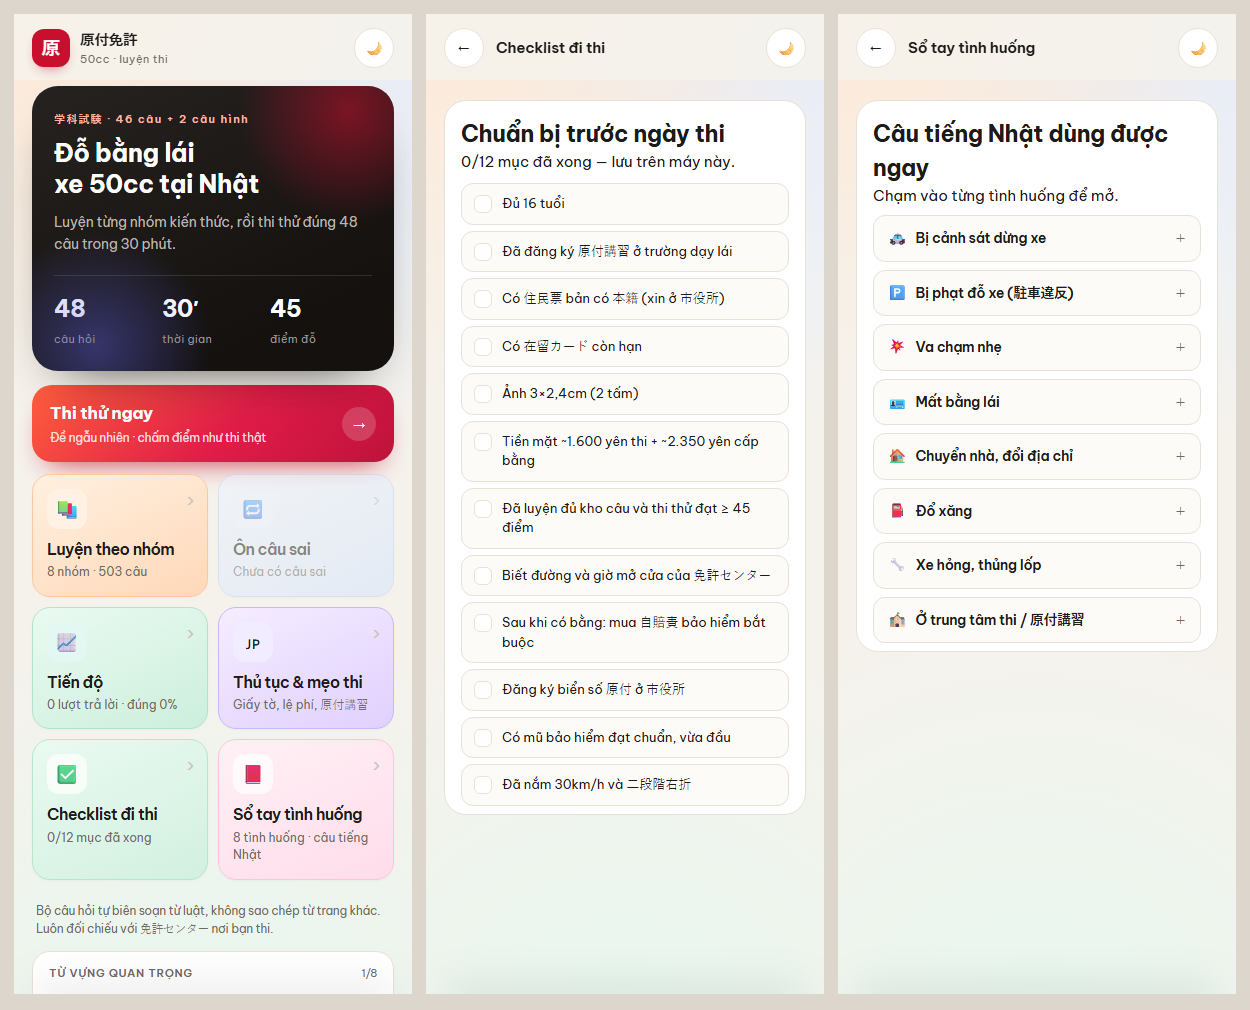
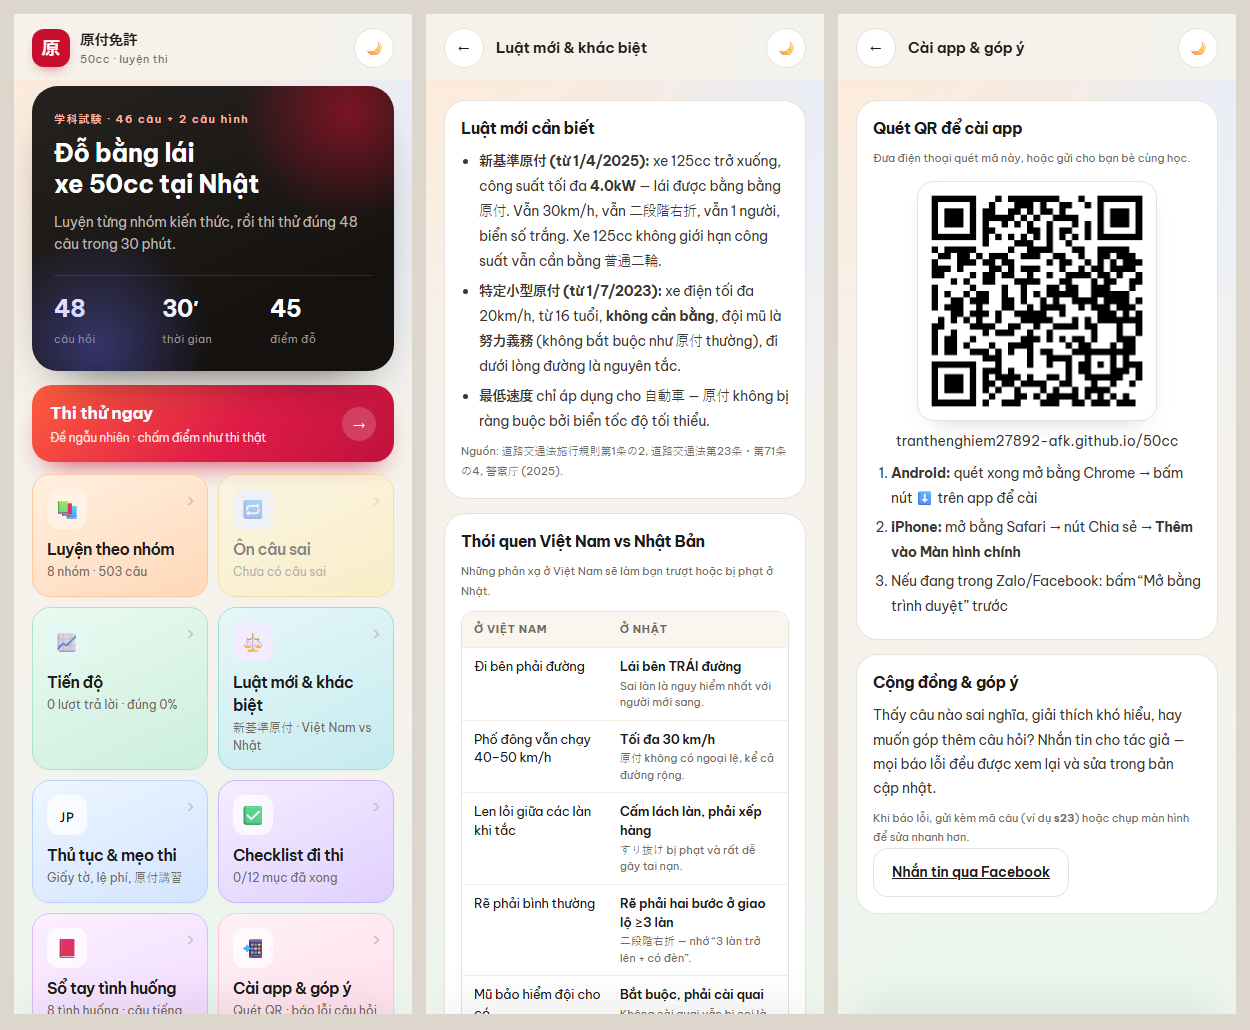
Add files via upload

diff --git a/js/app.js b/js/app.js
@@ -13,7 +13,7 @@
   var EXAM_TEXT = 46;
   var EXAM_ILL = 2;
   var PASS = 45;
-  var APP_VER = '46';
+  var APP_VER = '47';
 
   var qById = {};
   Q.forEach(function (q) { qById[q.id] = q; });
@@ -759,6 +759,11 @@
             '<span class="tile-body"><h3>Tiến độ</h3><p>' + o.n + ' lượt trả lời · đúng ' + o.rate + '%</p></span>' +
             '<span class="chev">›</span>' +
           '</button>' +
+          '<button class="tile" data-act="go-law">' +
+            '<span class="tile-icon">⚖</span>' +
+            '<span class="tile-body"><h3>Luật mới & khác biệt</h3><p>新基準原付 · Việt Nam vs Nhật</p></span>' +
+            '<span class="chev">›</span>' +
+          '</button>' +
           '<button class="tile" data-act="go-info">' +
             '<span class="tile-icon">🇯🇵</span>' +
             '<span class="tile-body"><h3>Thủ tục & mẹo thi</h3><p>Giấy tờ, lệ phí, 原付講習</p></span>' +
@@ -774,6 +779,11 @@
           '<button class="tile" data-act="go-sos">' +
             '<span class="tile-icon">📕</span>' +
             '<span class="tile-body"><h3>Sổ tay tình huống</h3><p>' + SITS.length + ' tình huống · câu tiếng Nhật</p></span>' +
+            '<span class="chev">›</span>' +
+          '</button>' +
+          '<button class="tile" data-act="go-connect">' +
+            '<span class="tile-icon">📲</span>' +
+            '<span class="tile-body"><h3>Cài app & góp ý</h3><p>Quét QR · báo lỗi câu hỏi</p></span>' +
             '<span class="chev">›</span>' +
           '</button>' +
         '</div>' +
@@ -1292,17 +1302,10 @@
       '</main>';
   }
 
-  function viewInfo() {
-    return topbar('Thủ tục & mẹo thi') +
+  function viewLaw() {
+    return topbar('Luật mới & khác biệt') +
       '<main class="wrap info">' +
-        '<section class="panel">' +
-          '<h2>Thi lý thuyết 原付 (50cc)</h2>' +
-          '<p>Đề gồm <b>46 câu chữ ○×</b> (1 điểm/câu) và <b>2 câu hình 危険予測</b> (2 điểm/câu, mỗi câu có 3 tiểu hỏi — ' +
-          'đúng cả 3 mới được 2 điểm). Tổng <b>48 câu, 50 điểm, 45 điểm là đỗ</b>, làm trong <b>30 phút</b>.</p>' +
-          '<p>Không có thi thực hành — chỉ lý thuyết tại 運転免許試験場. Tỷ lệ đỗ toàn quốc khoảng <b>58,7%</b> (năm 2025).</p>' +
-          '<p class="muted">Nguồn tham khảo: trang 学科試験 của 高知県警察 (30 phút, 50 điểm, 45 điểm đỗ).</p>' +
-        '</section>' +
-        '<section class="panel">' +
+'<section class="panel">' +
           '<h2>Luật mới cần biết</h2>' +
           '<ul>' +
             '<li><b>新基準原付 (từ 1/4/2025):</b> xe 125cc trở xuống, công suất tối đa <b>4.0kW</b> — lái được bằng bằng 原付. ' +
@@ -1313,6 +1316,55 @@
           '</ul>' +
           '<p class="muted">Nguồn: 道路交通法施行規則第1条の2, 道路交通法第23条・第71条の4, 警察庁 (2025).</p>' +
         '</section>' +
+'<section class="panel">' +
+          '<h2>Thói quen Việt Nam vs Nhật Bản</h2>' +
+          '<p class="muted">Những phản xạ ở Việt Nam sẽ làm bạn trượt hoặc bị phạt ở Nhật.</p>' +
+          '<div class="cmp">' +
+            '<div class="cmp-row cmp-head"><span>Ở Việt Nam</span><span>Ở Nhật</span></div>' +
+            COMPARE.map(function (x) {
+              return '<div class="cmp-row"><span>' + esc(x.vi) + '</span>' +
+                '<span><b>' + esc(x.jp) + '</b><i>' + esc(x.note) + '</i></span></div>';
+            }).join('') +
+          '</div>' +
+        '</section>' +
+      '</main>';
+  }
+
+  function viewConnect() {
+    return topbar('Cài app & góp ý') +
+      '<main class="wrap info">' +
+'<section class="panel">' +
+          '<h2>Quét QR để cài app</h2>' +
+          '<p class="muted">Đưa điện thoại quét mã này, hoặc gửi cho bạn bè cùng học.</p>' +
+          '<div class="qrbox"><img src="assets/qr.png" alt="Mã QR mở app 原付 50cc" width="240" height="240" loading="lazy"></div>' +
+          '<p class="qrurl">tranthenghiem27892-afk.github.io/50cc</p>' +
+          '<ol class="w-steps">' +
+            '<li><b>Android:</b> quét xong mở bằng Chrome → bấm nút ⬇ trên app để cài</li>' +
+            '<li><b>iPhone:</b> mở bằng Safari → nút Chia sẻ → <b>Thêm vào Màn hình chính</b></li>' +
+            '<li>Nếu đang trong Zalo/Facebook: bấm “Mở bằng trình duyệt” trước</li>' +
+          '</ol>' +
+        '</section>' +
+'<section class="panel">' +
+          '<h2>Cộng đồng & góp ý</h2>' +
+          '<p>Thấy câu nào sai nghĩa, giải thích khó hiểu, hay muốn góp thêm câu hỏi? ' +
+            'Nhắn tin cho tác giả — mọi báo lỗi đều được xem lại và sửa trong bản cập nhật.</p>' +
+          '<p class="muted">Khi báo lỗi, gửi kèm mã câu (ví dụ <b>s23</b>) hoặc chụp màn hình để sửa nhanh hơn.</p>' +
+          '<a class="btn btn-ghost" href="https://www.facebook.com/Gimichan92" target="_blank" rel="noopener noreferrer" data-fb="1">Nhắn tin qua Facebook</a>' +
+        '</section>' +
+      '</main>';
+  }
+
+  function viewInfo() {
+    return topbar('Thủ tục & mẹo thi') +
+      '<main class="wrap info">' +
+        '<section class="panel">' +
+          '<h2>Thi lý thuyết 原付 (50cc)</h2>' +
+          '<p>Đề gồm <b>46 câu chữ ○×</b> (1 điểm/câu) và <b>2 câu hình 危険予測</b> (2 điểm/câu, mỗi câu có 3 tiểu hỏi — ' +
+          'đúng cả 3 mới được 2 điểm). Tổng <b>48 câu, 50 điểm, 45 điểm là đỗ</b>, làm trong <b>30 phút</b>.</p>' +
+          '<p>Không có thi thực hành — chỉ lý thuyết tại 運転免許試験場. Tỷ lệ đỗ toàn quốc khoảng <b>58,7%</b> (năm 2025).</p>' +
+          '<p class="muted">Nguồn tham khảo: trang 学科試験 của 高知県警察 (30 phút, 50 điểm, 45 điểm đỗ).</p>' +
+        '</section>' +
+        
         '<section class="panel">' +
           '<h2>Điều kiện & thủ tục</h2>' +
           '<ul>' +
@@ -1334,40 +1386,14 @@
             '<li>Không bỏ trống câu nào — sai không bị trừ điểm.</li>' +
           '</ul>' +
         '</section>' +
-        '<section class="panel">' +
-          '<h2>Thói quen Việt Nam vs Nhật Bản</h2>' +
-          '<p class="muted">Những phản xạ ở Việt Nam sẽ làm bạn trượt hoặc bị phạt ở Nhật.</p>' +
-          '<div class="cmp">' +
-            '<div class="cmp-row cmp-head"><span>Ở Việt Nam</span><span>Ở Nhật</span></div>' +
-            COMPARE.map(function (x) {
-              return '<div class="cmp-row"><span>' + esc(x.vi) + '</span>' +
-                '<span><b>' + esc(x.jp) + '</b><i>' + esc(x.note) + '</i></span></div>';
-            }).join('') +
-          '</div>' +
-        '</section>' +
+        
         '<section class="panel">' +
           '<h2>Về bộ câu hỏi này</h2>' +
           '<p>Toàn bộ câu hỏi được biên soạn lại bằng tiếng Nhật từ nội dung luật (道路交通法), có giải thích tiếng Việt. ' +
           'Không sao chép văn bản từ trang luyện thi nào.</p>' +
         '</section>' +
-        '<section class="panel">' +
-          '<h2>Quét QR để cài app</h2>' +
-          '<p class="muted">Đưa điện thoại quét mã này, hoặc gửi cho bạn bè cùng học.</p>' +
-          '<div class="qrbox"><img src="assets/qr.png" alt="Mã QR mở app 原付 50cc" width="240" height="240" loading="lazy"></div>' +
-          '<p class="qrurl">tranthenghiem27892-afk.github.io/50cc</p>' +
-          '<ol class="w-steps">' +
-            '<li><b>Android:</b> quét xong mở bằng Chrome → bấm nút ⬇ trên app để cài</li>' +
-            '<li><b>iPhone:</b> mở bằng Safari → nút Chia sẻ → <b>Thêm vào Màn hình chính</b></li>' +
-            '<li>Nếu đang trong Zalo/Facebook: bấm “Mở bằng trình duyệt” trước</li>' +
-          '</ol>' +
-        '</section>' +
-        '<section class="panel">' +
-          '<h2>Cộng đồng & góp ý</h2>' +
-          '<p>Thấy câu nào sai nghĩa, giải thích khó hiểu, hay muốn góp thêm câu hỏi? ' +
-            'Nhắn tin cho tác giả — mọi báo lỗi đều được xem lại và sửa trong bản cập nhật.</p>' +
-          '<p class="muted">Khi báo lỗi, gửi kèm mã câu (ví dụ <b>s23</b>) hoặc chụp màn hình để sửa nhanh hơn.</p>' +
-          '<a class="btn btn-ghost" href="https://www.facebook.com/Gimichan92" target="_blank" rel="noopener noreferrer" data-fb="1">Nhắn tin qua Facebook</a>' +
-        '</section>' +
+        
+        
       '</main>';
   }
 
@@ -1612,6 +1638,8 @@
     else if (screen === 'cards') { html = viewCards(); }
     else if (screen === 'checklist') { html = viewChecklist(); }
     else if (screen === 'sos') { html = viewSos(); }
+    else if (screen === 'law') { html = viewLaw(); }
+    else if (screen === 'connect') { html = viewConnect(); }
     else { html = viewHome(); }
     app.innerHTML = html;
     window.scrollTo(0, 0);
@@ -1667,6 +1695,8 @@
     if (act === 'go-info') { go('info'); return; }
     if (act === 'go-checklist') { go('checklist'); return; }
     if (act === 'go-sos') { go('sos'); return; }
+    if (act === 'go-law') { go('law'); return; }
+    if (act === 'go-connect') { go('connect'); return; }
     if (act === 'check') {
       var ck = t.dataset.k;
       db.checklist[ck] = !db.checklist[ck];
@@ -1821,6 +1851,8 @@
   } else if (demo === 'stats') { go('stats'); }
   else if (demo === 'gram') { go('gram'); }
   else if (demo === 'check') { go('checklist'); }
+  else if (demo === 'law') { go('law'); }
+  else if (demo === 'connect') { go('connect'); }
   else if (demo === 'sos') { go('sos'); }
   else if (demo === 'cards') { startCards(); }
   else if (demo === 'info') { go('info'); }

diff --git a/css/style.css b/css/style.css
@@ -1368,3 +1368,22 @@ html.furi .w rt { visibility: visible; }
   text-align: center; font-size: 11.5px; color: var(--muted);
   letter-spacing: .02em; margin-bottom: 4px; word-break: break-all;
 }
+
+/* 8 ô — dải sắc độ: cam → vàng → mint → teal → xanh → tím → violet → hồng */
+.tiles .tile:nth-child(1) { background: linear-gradient(155deg, #fff0e0, #ffd8b8); border-color: #ffc7a0; }
+.tiles .tile:nth-child(2) { background: linear-gradient(155deg, #fff9dd, #ffe9a3); border-color: #f2d067; }
+.tiles .tile:nth-child(3) { background: linear-gradient(155deg, #eafaf1, #ccefdd); border-color: #afe4c8; }
+.tiles .tile:nth-child(4) { background: linear-gradient(155deg, #e6f7f8, #c6ebef); border-color: #a3dbe0; }
+.tiles .tile:nth-child(5) { background: linear-gradient(155deg, #eef6ff, #d3e4ff); border-color: #b9d2ff; }
+.tiles .tile:nth-child(6) { background: linear-gradient(155deg, #f5edff, #e0d0ff); border-color: #cbb5ff; }
+.tiles .tile:nth-child(7) { background: linear-gradient(155deg, #fbefff, #f0d9ff); border-color: #dfb8ff; }
+.tiles .tile:nth-child(8) { background: linear-gradient(155deg, #fff1f6, #ffdcea); border-color: #ffc4dd; }
+
+[data-theme="dark"] .tiles .tile:nth-child(1) { background: linear-gradient(155deg, #33261c, #211b17); border-color: #4a3425; }
+[data-theme="dark"] .tiles .tile:nth-child(2) { background: linear-gradient(155deg, #2e2a15, #1e1b18); border-color: #4a4222; }
+[data-theme="dark"] .tiles .tile:nth-child(3) { background: linear-gradient(155deg, #1b2b24, #1b1a18); border-color: #2c4738; }
+[data-theme="dark"] .tiles .tile:nth-child(4) { background: linear-gradient(155deg, #16292c, #1b1a18); border-color: #264a4f; }
+[data-theme="dark"] .tiles .tile:nth-child(5) { background: linear-gradient(155deg, #1e2937, #1b1a18); border-color: #31415a; }
+[data-theme="dark"] .tiles .tile:nth-child(6) { background: linear-gradient(155deg, #281f36, #1b1a18); border-color: #3d3157; }
+[data-theme="dark"] .tiles .tile:nth-child(7) { background: linear-gradient(155deg, #2f1f38, #1b1a18); border-color: #492f56; }
+[data-theme="dark"] .tiles .tile:nth-child(8) { background: linear-gradient(155deg, #2b1f26, #1b1a18); border-color: #452c3a; }

diff --git a/sw.js b/sw.js
@@ -1,6 +1,6 @@
 /* Service worker — cho phép dùng offline sau lần mở đầu tiên.
    Đổi CACHE khi sửa nội dung để buộc tải bản mới. */
-const CACHE = 'gentsuki-v46';
+const CACHE = 'gentsuki-v47';
 
 const ASSETS = [
   './',
